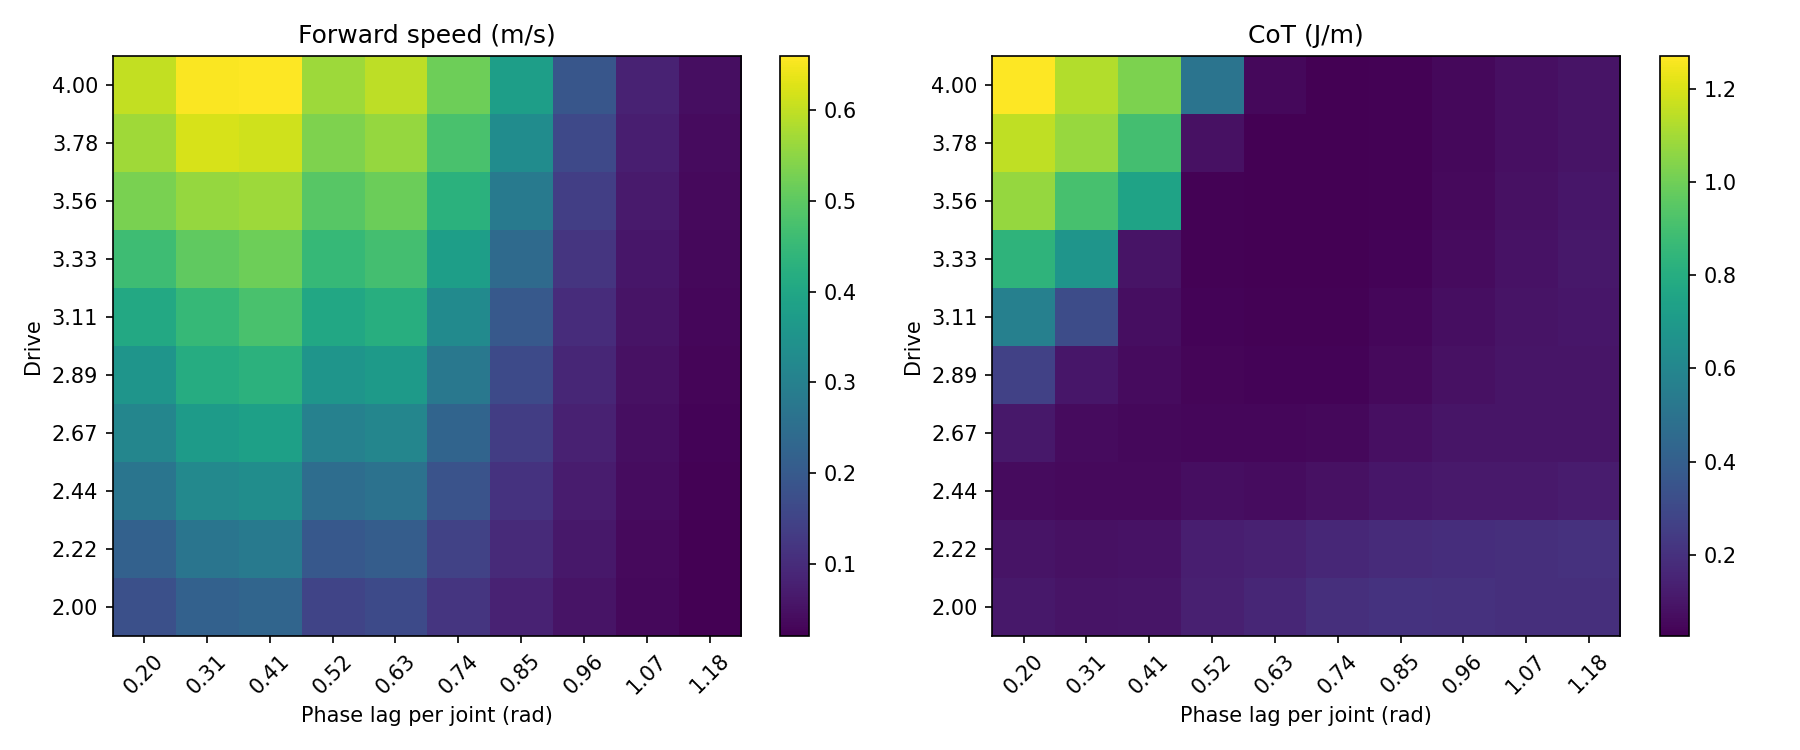
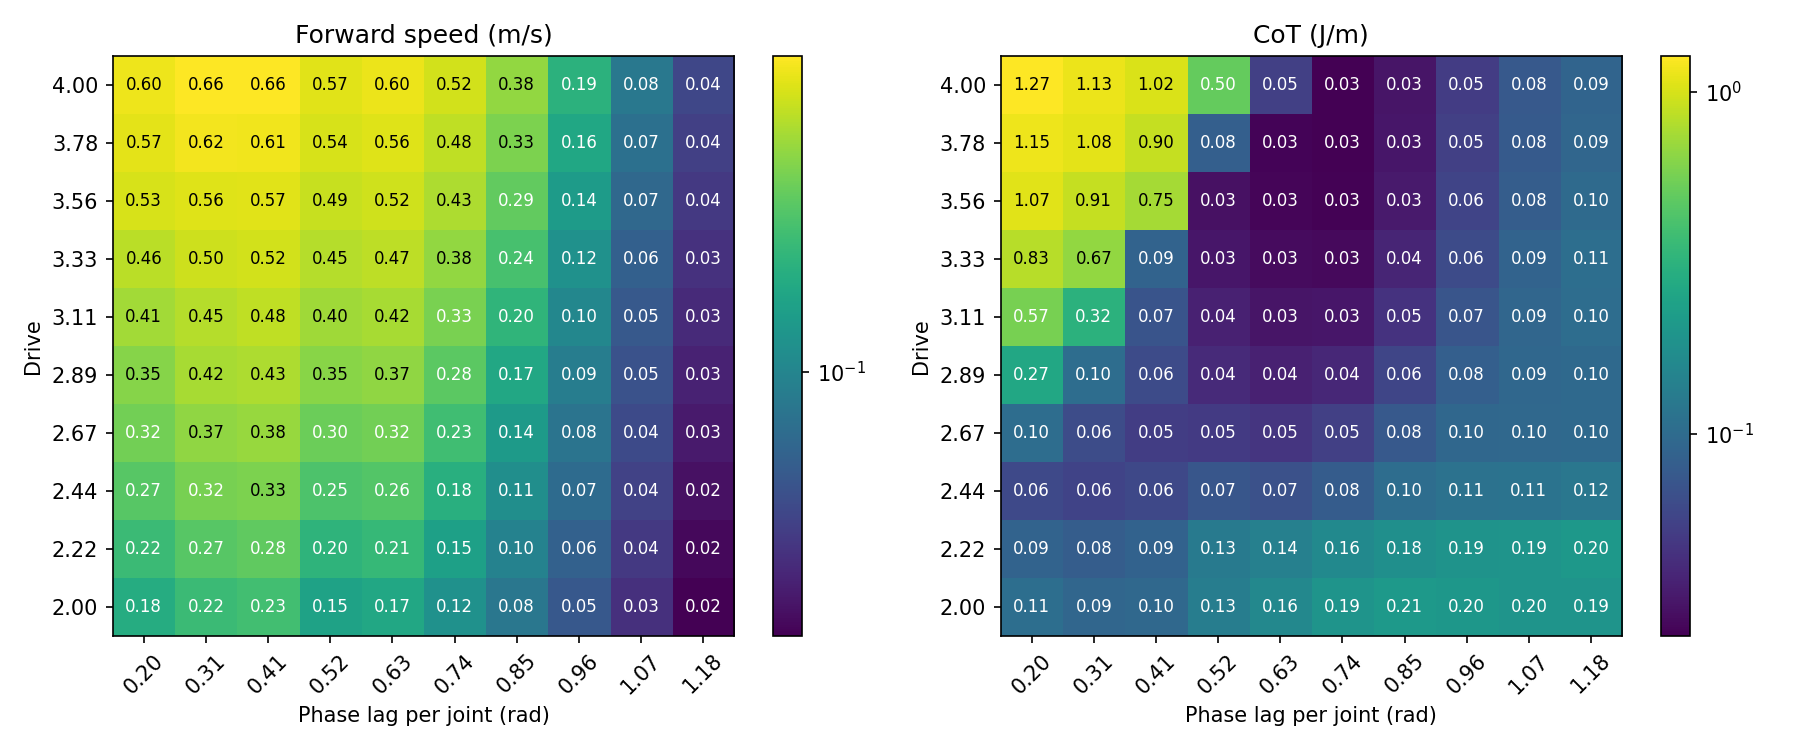
EXO 2.2 Heatmap

diff --git a/Project1/Python/cmc_controllers/plot_utils.py b/Project1/Python/cmc_controllers/plot_utils.py
@@ -117,8 +117,17 @@ def plot_drive_pl_heatmaps(drive_range, pl_vals, get_metrics, base_path):
     titles = ['Forward speed (m/s)', 'CoT (J/m)']
 
     for ax, grid, title in zip(axes, grids, titles):
-        im = ax.imshow(grid, aspect='auto', origin='lower', cmap='viridis')
+        norm = SymLogNorm(linthresh=0.01, vmin=np.nanmin(grid), vmax=np.nanmax(grid))
+        im = ax.imshow(grid, norm=norm, aspect='auto', origin='lower', cmap='viridis')
         plt.colorbar(im, ax=ax)
+
+        for i in range(n_drive):
+            for j in range(n_pl):
+                val = grid[i, j]
+                if not np.isnan(val):
+                    color_text = "white" if val < (np.nanmax(grid) * 0.5) else "black"
+                    ax.text(j, i, f'{val:.2f}', ha="center", va="center", color=color_text, fontsize=8)
+
         ax.set_xticks(range(n_pl))
         ax.set_xticklabels([f'{p:.2f}' for p in pl_vals], rotation=45)
         ax.set_yticks(range(n_drive))
@@ -148,8 +157,17 @@ def plot_diff_drive_heatmaps(drive_vals, get_metrics, base_path):
     labels = [f'{v:.2f}' for v in drive_vals]
 
     fig, ax = plt.subplots(1, 1, figsize=(6, 5))
-    im = ax.imshow(grid_curvature, aspect='auto', origin='lower', cmap='viridis')
+    norm = SymLogNorm(linthresh=0.01, vmin=np.nanmin(grid_curvature), vmax=np.nanmax(grid_curvature))
+    im = ax.imshow(grid_curvature, norm=norm, aspect='auto', origin='lower', cmap='viridis')
     plt.colorbar(im, ax=ax)
+
+    for i in range(n):
+        for j in range(n):
+            val = grid_curvature[i, j]
+            if not np.isnan(val):
+                color_text = "white" if val < (np.nanmax(grid_curvature) * 0.5) else "black"
+                ax.text(j, i, f'{val:.2f}', ha="center", va="center", color=color_text, fontsize=8)
+
     ax.set_xticks(range(n))
     ax.set_xticklabels(labels, rotation=45)
     ax.set_yticks(range(n))
